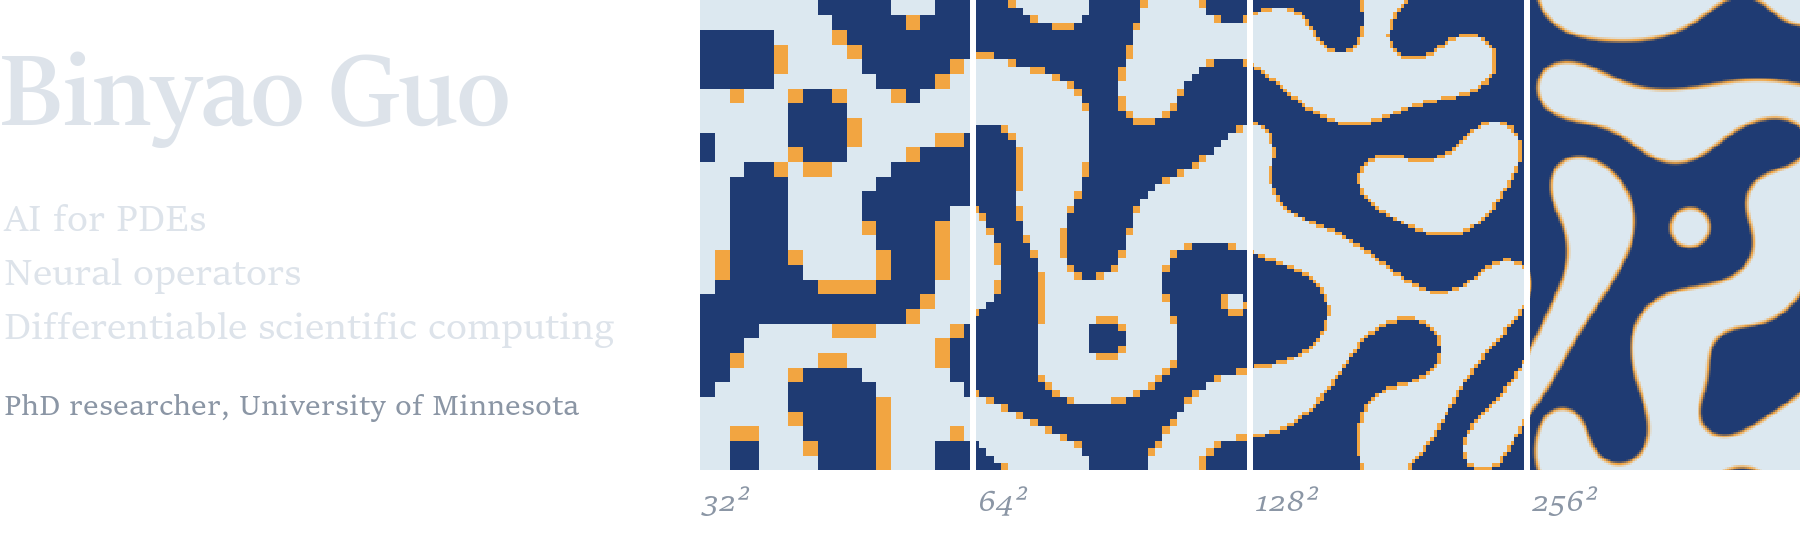
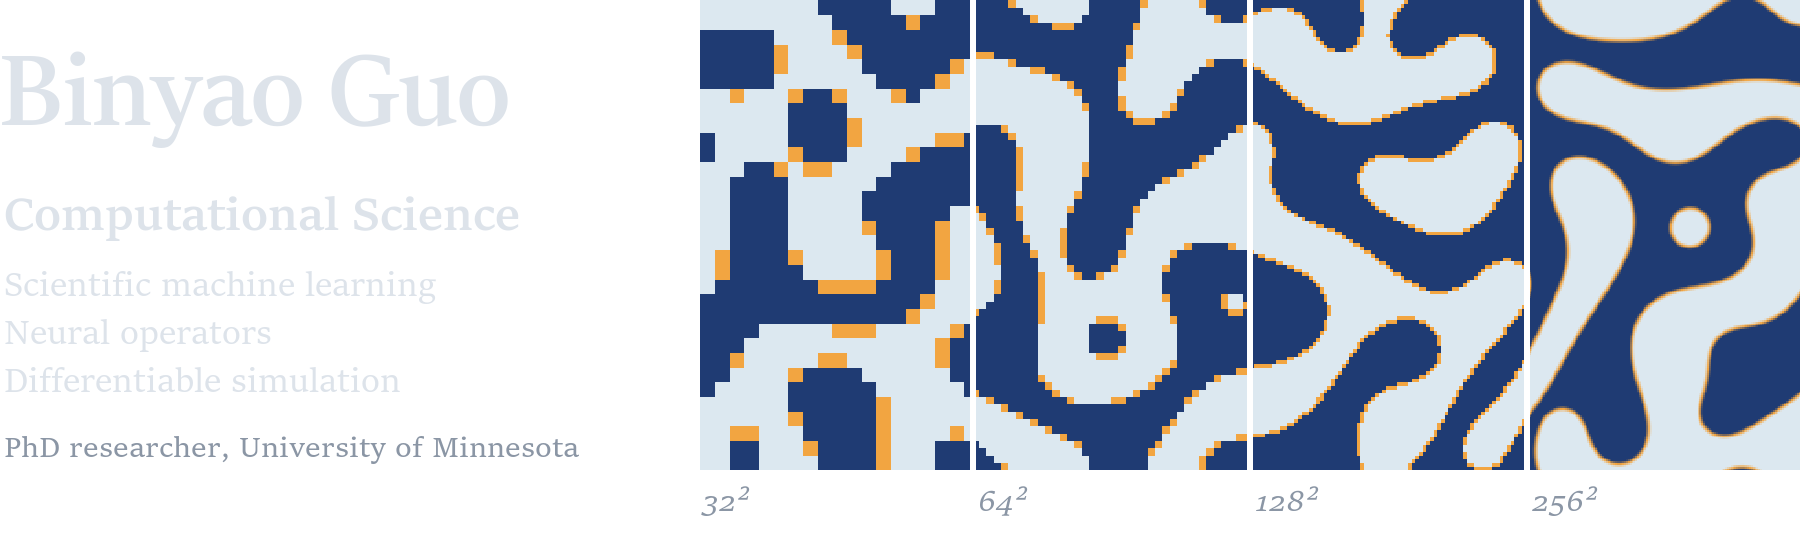
Reframe the profile around computational science
- Re-render the hero with a "Computational Science" headline and the
  lines "Scientific machine learning", "Neural operators",
  "Differentiable simulation". Rewrite the alt text and the intro to
  match. Mechanics now appears only as an application area.
- Rewrite the UIUC section as 3D vision and robotics work:
  point-cloud quality assessment for large-scale additive
  manufacturing, and UAV defect detection and path planning in AirSim.
  Relabel the baked-in image captions and rename the two assets.
- Topology figure: drop the benchmark titles from the design row and
  relabel the multimaterial result. Use neutral alt text.
- Publications: list venue 7 as ASCE i3CE 2023 and venue 8 as ASCE
  Conference Proceedings. Paper titles and DOIs are unchanged.

Changed region(s): [[0.0, 0.6679, 0.3422, 0.8196], [0.0, 0.4554, 0.3422, 0.6071], [0.0, 0.3643, 0.28, 0.425]]

diff --git a/README.md b/README.md
@@ -1,9 +1,9 @@
 <picture>
   <source media="(prefers-color-scheme: dark)" srcset="assets/hero_dark.png">
-  <img src="assets/hero_light.png" alt="Binyao Guo. AI for PDEs, neural operators, differentiable scientific computing. A Cahn–Hilliard phase field drawn on 32², 64², 128² and 256² grids." width="100%">
+  <img src="assets/hero_light.png" alt="Binyao Guo. Computational science: scientific machine learning, neural operators, differentiable simulation. A Cahn–Hilliard phase field drawn on 32², 64², 128² and 256² grids." width="100%">
 </picture>
 
-I am a PhD researcher at the University of Minnesota, advised by [Prof. QiZhi He](https://qzhe.umn.edu/) in the [Intelligent Mechanics Lab](https://github.com/IntelligentMechanicsLab). I develop neural operators, reduced-order models, and differentiable solvers for physical simulation, and I connect the learned models with numerical methods so they can be checked against PDE and mechanics benchmarks. Most of my work is in Python, JAX, and PyTorch. I am also interested in topology optimization, data-driven mechanics, physics-informed machine learning, and computer vision for physical environments.
+I am a computational scientist and PhD researcher at the University of Minnesota, advised by [Prof. QiZhi He](https://qzhe.umn.edu/) in the [Intelligent Mechanics Lab](https://github.com/IntelligentMechanicsLab). I build neural operators, reduced-order models, and differentiable solvers for physical simulation, and I couple the learned models with numerical methods so they can be tested against classical PDE solvers. Applications range from fluid flow and phase separation to wave propagation, electromagnetics, and path-dependent solid mechanics. Most of my work is in Python, JAX, and PyTorch. I am also interested in physics-informed machine learning, topology optimization, data-driven constitutive modeling, and 3D computer vision.
 
 I am also pursuing an M.S. in Computer Science at Minnesota. Before that I earned an M.S. at the University of Illinois Urbana-Champaign (2023) and a dual-degree B.Eng. from the University of Leeds and Southwest Jiaotong University (2021). I hold a UMN Data Science Initiative ADC Graduate Fellowship (2025).
 
@@ -31,7 +31,7 @@ First author, *Computer Methods in Applied Mechanics and Engineering* 447, 11835
 
 ### Neural topology optimization with constrained optimization
 
-<img src="assets/topology_optimization.png" alt="Neural topology optimization framework with a CNN reparameterization and PyGRANSO, optimized MBB beam, bridge and L-shape designs, and a multimaterial bridge" width="600">
+<img src="assets/topology_optimization.png" alt="Neural topology optimization framework with a CNN reparameterization and PyGRANSO, three optimized single-material benchmark designs, and a multimaterial design" width="600">
 
 A neural network represents the material density, and compliance is minimized under volume and binary-design constraints with principled constrained optimization (PyGRANSO). I worked on the constraint handling and extended the framework to multimaterial design.
 
@@ -53,30 +53,30 @@ A local-support, sparse reproducing kernel particle method written in JAX. Eleme
 - **HANO inside JAX-FEM (NSF).** Nonlinear equilibrium solves with Newton iterations, Jacobian-vector products, GMRES, and line search. In a single cyclic J2-plasticity test over 18 load increments, the final-state errors were 2.90% in stress, 1.05% in displacement, and 0.96% in reaction force.
 - **Differentiable neural-integrated meshfree method.** Architecture variants, including CNN replacements for dense networks, for forward and inverse finite-strain hyperelasticity (second author, *Engineering with Computers*, 2025).
 
-## Earlier work: computer vision and 3D geometry
+## Earlier work: 3D vision and robotics
 
 At the University of Illinois Urbana-Champaign (2021–2023).
 
 <table>
   <tr>
     <td width="50%" valign="top">
-      <b>3D-printed concrete quality assessment from point clouds</b><br>
-      <img src="assets/uiuc_3dcp_qa.png" alt="Workflow from the design model and printed part, through photogrammetry and LiDAR capture, to point-cloud deviation maps, detected surface defects, and segmented layers" width="100%"><br>
-      <sub>Photogrammetry and LiDAR point clouds are compared with the design geometry through distance, surface-normal, and curvature errors. Defects segmented in 2D images are back-projected onto the 3D model. M.S. thesis.</sub>
+      <b>Point-cloud quality assessment for large-scale additive manufacturing</b><br>
+      <img src="assets/uiuc_pointcloud_qa.png" alt="Workflow from the design model and printed part, through photogrammetry and LiDAR capture, to point-cloud deviation maps, detected surface defects, and segmented layers" width="100%"><br>
+      <sub>Photogrammetry and LiDAR point clouds of a printed part are compared with its design geometry through distance, surface-normal, and curvature errors. Defects segmented in 2D images are back-projected onto the 3D reconstruction. M.S. thesis.</sub>
     </td>
     <td width="50%" valign="top">
-      <b>UAV inspection planning in simulation</b><br>
-      <img src="assets/uiuc_uav_inspection.jpg" alt="Simulated structure with synthetic cracks in AirSim, a virtual UAV image, and its U-Net crack segmentation" width="100%"><br>
-      <sub>A virtual UAV flies candidate paths in AirSim over a model with synthetic cracks. YOLO and U-Net find and segment the defects, structure-from-motion maps them to 3D, and path planning trades coverage against travel distance.</sub>
+      <b>UAV defect detection and path planning in AirSim</b><br>
+      <img src="assets/uiuc_uav_planning.jpg" alt="AirSim scene with synthetic surface cracks, an image from the virtual UAV camera, and its U-Net segmentation" width="100%"><br>
+      <sub>A virtual UAV flies candidate paths through an AirSim scene with synthetic surface cracks. YOLO and U-Net detect and segment the defects, structure-from-motion maps them to 3D, and path planning trades coverage against flight distance.</sub>
     </td>
   </tr>
 </table>
 
 <details>
-<summary><b>3D-printed concrete quality assessment: aims and methods</b></summary>
+<summary><b>Point-cloud quality assessment: aims and methods</b></summary>
 <br>
 
-Large-scale 3D concrete printing still lacks systematic quality control, and the consistency of layer dimensions during printing had not been studied closely. The thesis addresses three questions:
+Large-scale additive manufacturing still lacks systematic, data-driven quality control, and the consistency of layer dimensions during printing had not been studied closely. The thesis addresses three questions:
 
 1. **Global shape.** How closely does the printed part match its intended geometry? The point cloud of the print is compared with the design shape using distance error, normal-angle difference, and curvature error.
 2. **Surface defects.** Where are the defects? They are detected in 2D images, and the defect pixels are back-projected into 3D so they can be inspected and measured on the model.
@@ -87,16 +87,16 @@ Large-scale 3D concrete printing still lacks systematic quality control, and the
 </details>
 
 <details>
-<summary><b>UAV inspection planning: case study</b></summary>
+<summary><b>UAV defect detection and path planning: case study</b></summary>
 <br>
 
-A framework for planning automated robotic inspections by simulating different inspection scenarios and scoring their performance. In the case study, the goal is to choose the best UAV inspection path for a bridge:
+A framework for planning automated robotic data collection by simulating different flight scenarios and scoring their performance. In the case study, the goal is to choose the best UAV flight path for imaging a large 3D scene:
 
-1. A script adds cracks at random locations to the graphic model of the bridge.
+1. A script adds cracks at random locations to a textured 3D model.
 2. The model is imported into AirSim, and a virtual UAV is programmed to fly each candidate path and capture images.
 3. YOLO localizes the cracks in each image, and a U-Net segments them at pixel level.
 4. Structure-from-motion maps the detected defects onto the 3D model.
-5. Quantitative metrics computed on the mapped defects guide the optimization and planning of real inspections.
+5. Quantitative metrics computed on the mapped defects score each path and guide flight planning for real UAV missions.
 
 Related paper: publication 7 below.
 
@@ -118,8 +118,8 @@ Related paper: publication 7 below.
 
 **Conference papers**
 
-7. Y. Zhao, **B. Guo**, I. Aziz, and M. Alipour. An Optimization Framework for UAS-Based Infrastructure Inspection Path Planning. *Computing in Civil Engineering 2023*, 890–898, 2023. [Paper](https://doi.org/10.1061/9780784485248.107)
-8. Y. Zhao, **B. Guo**, H. Che, and M. Alipour. Developing Human Sensing Platforms for Digitizing Visual Inspections of Critical Infrastructure. *Structures Congress 2023*, 340–353, 2023. [Paper](https://doi.org/10.1061/9780784484777.030)
+7. Y. Zhao, **B. Guo**, I. Aziz, and M. Alipour. An Optimization Framework for UAS-Based Infrastructure Inspection Path Planning. *ASCE i3CE 2023*, 890–898, 2023. [Paper](https://doi.org/10.1061/9780784485248.107)
+8. Y. Zhao, **B. Guo**, H. Che, and M. Alipour. Developing Human Sensing Platforms for Digitizing Visual Inspections of Critical Infrastructure. *ASCE Conference Proceedings*, 340–353, 2023. [Paper](https://doi.org/10.1061/9780784484777.030)
 
 **Thesis**
 
